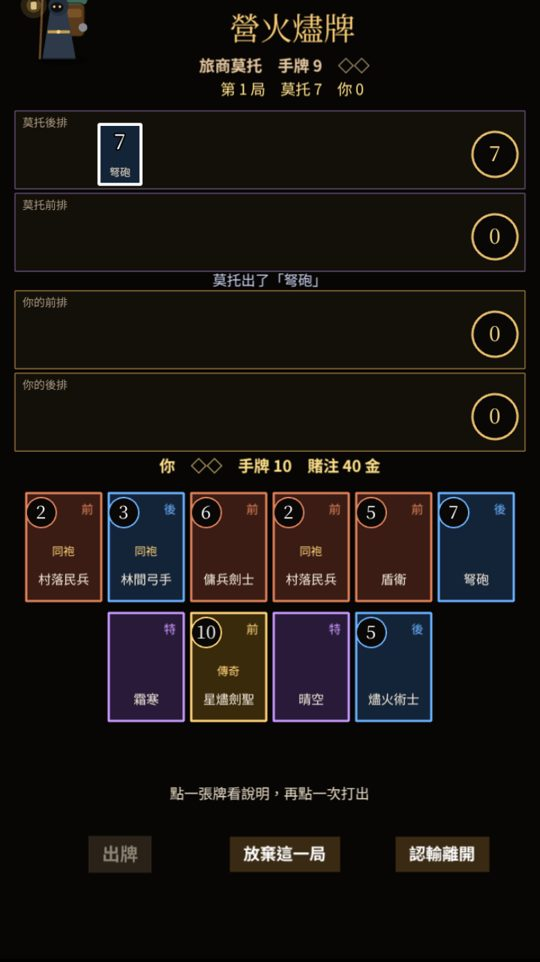
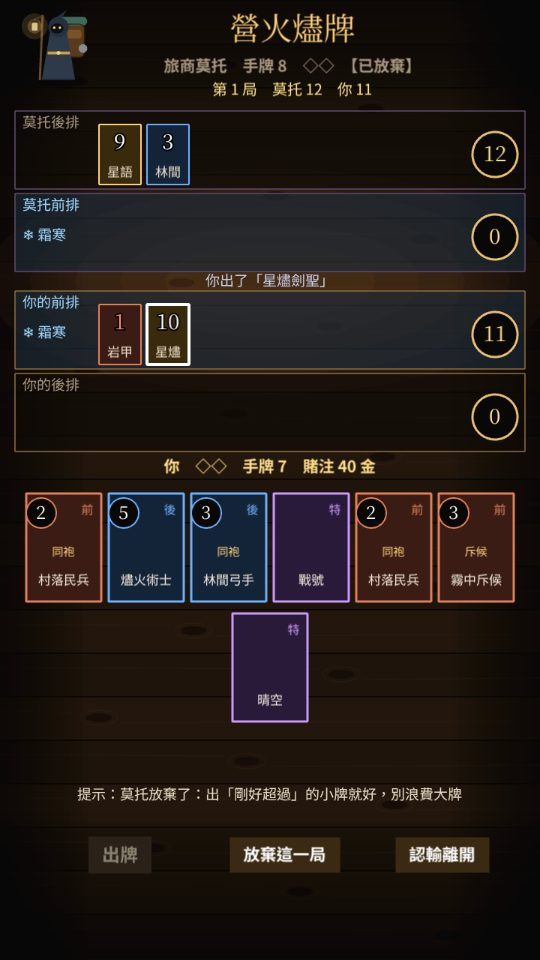
燼牌天候改寫在排名下面一行（❄ 霜寒／☁ 濃霧）：排名放大後「莫托前排・霜寒」會壓到第一張牌；README 燼牌截圖換成新的牌桌（霜寒＋傳奇＋教學提示）
Claude-Session: https://claude.ai/code/session_01DgXGTvddnqU66sEePaPzNg

diff --git a/src/game/ui/emberCardPanel.ts b/src/game/ui/emberCardPanel.ts
@@ -182,8 +182,10 @@ export function openEmberCardPanel(scene: Phaser.Scene, ctx: CardCtx, onClose: (
     const S = game.sides[side]!;
     const weather = game.weather[row];
     items.push(scene.add.rectangle(0, y, 680, 104, weather ? (row === 0 ? 0x1a2a3a : 0x2a2a30) : 0x0e0a06, 0.62).setStrokeStyle(2, side === 0 ? 0x8a6a3a : 0x5a4a6a, 0.8));
-    items.push(scene.add.text(-330, y - 36, `${side === 0 ? '你的' : who.short}${ROW_NAME[row]}${weather ? (row === 0 ? '・霜寒' : '・濃霧') : ''}`, { fontFamily: UI_FONT, fontSize: '19px', color: weather ? '#9fd8ff' : '#a89880' }).setOrigin(0, 0.5));
-    if (S.horn[row]) items.push(scene.add.text(-330, y + 10, '戰號×2', { fontFamily: UI_FONT, fontSize: '20px', color: '#ffd27a' }).setOrigin(0, 0.5));
+    // 第 47 輪：排名放大到 19px 後「莫托前排・霜寒」會壓到第一張牌 → 天候改成排名下面一行（和戰號同一欄）
+    items.push(scene.add.text(-330, y - 36, `${side === 0 ? '你的' : who.short}${ROW_NAME[row]}`, { fontFamily: UI_FONT, fontSize: '19px', color: weather ? '#9fd8ff' : '#a89880' }).setOrigin(0, 0.5));
+    if (S.horn[row]) items.push(scene.add.text(-330, y + 4, '戰號×2', { fontFamily: UI_FONT, fontSize: '20px', color: '#ffd27a' }).setOrigin(0, 0.5));
+    if (weather) items.push(scene.add.text(-330, y + (S.horn[row] ? 34 : 4), row === 0 ? '❄ 霜寒' : '☁ 濃霧', { fontFamily: UI_FONT, fontSize: '19px', color: '#9fd8ff' }).setOrigin(0, 0.5));
     const n = S.rows[row].length;
     const gap = Math.min(64, 480 / Math.max(1, n));
     S.rows[row].forEach((id, i) => {
